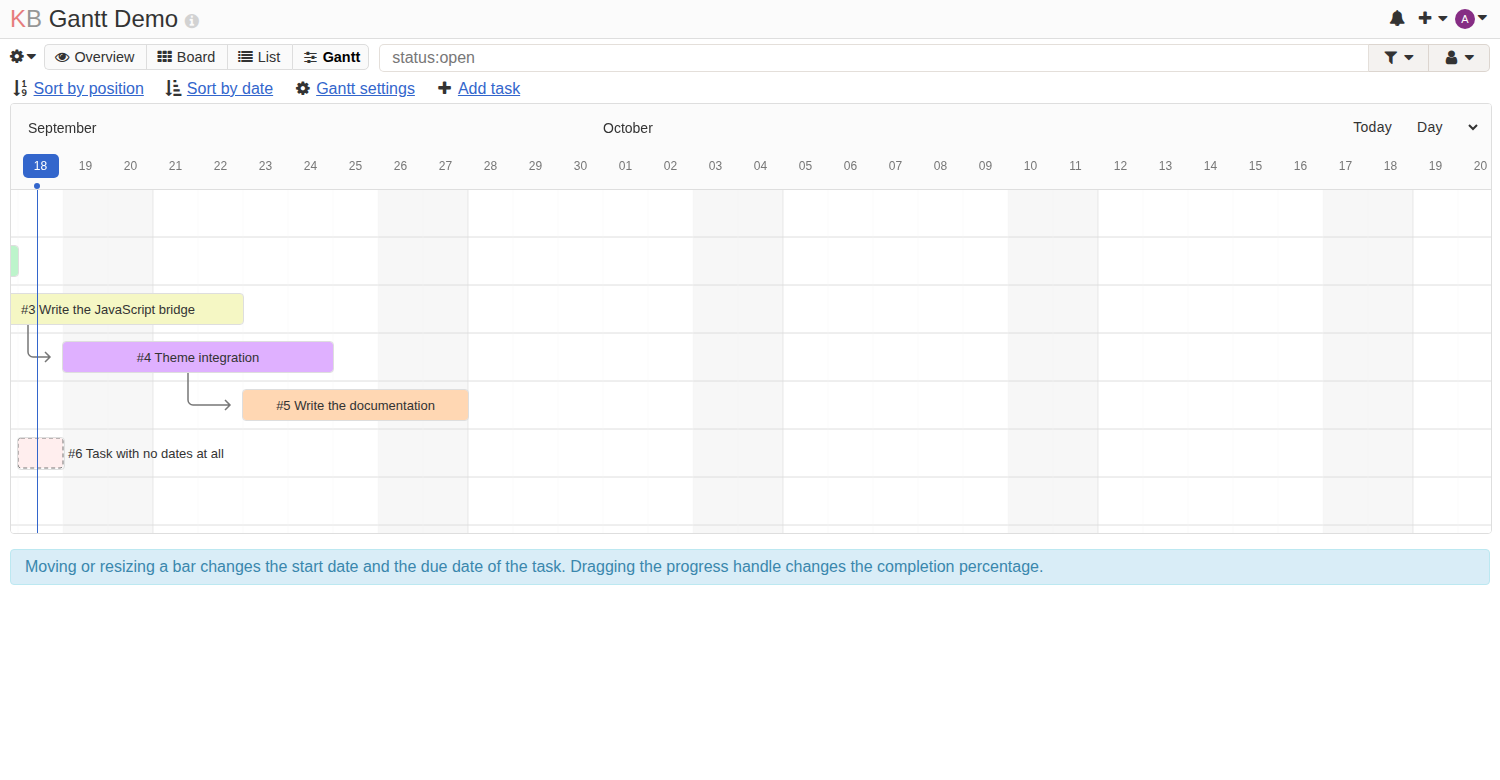
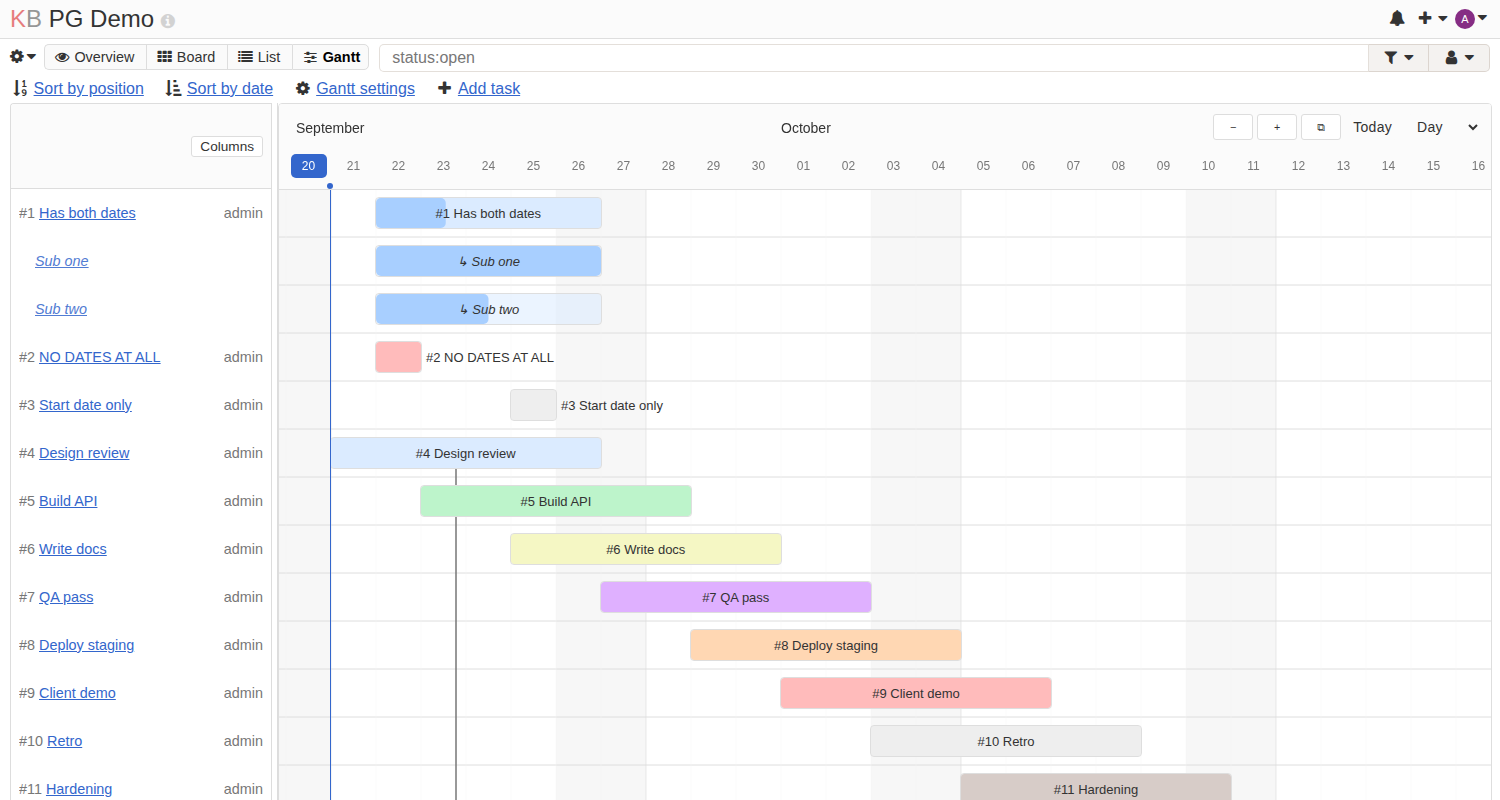
Release 1.1.0
The task column, milestone diamonds, zoom controls and the v g shortcut.

Verified against PostgreSQL by dragging an undated task, a start-only task
and a progress handle, then reading the rows back: all three persist, and
the undated styling clears. All five pages render with no console errors.
38 tests, 564 assertions, green on SQLite, PostgreSQL and MariaDB.

Claude-Session: https://claude.ai/code/session_01SN1ksr2vMkyiA4X9KJ798y

diff --git a/Plugin.php b/Plugin.php
@@ -104,7 +104,7 @@ class Plugin extends Base
 
     public function getPluginVersion()
     {
-        return '1.0.2';
+        return '1.1.0';
     }
 
     public function getPluginHomepage()
